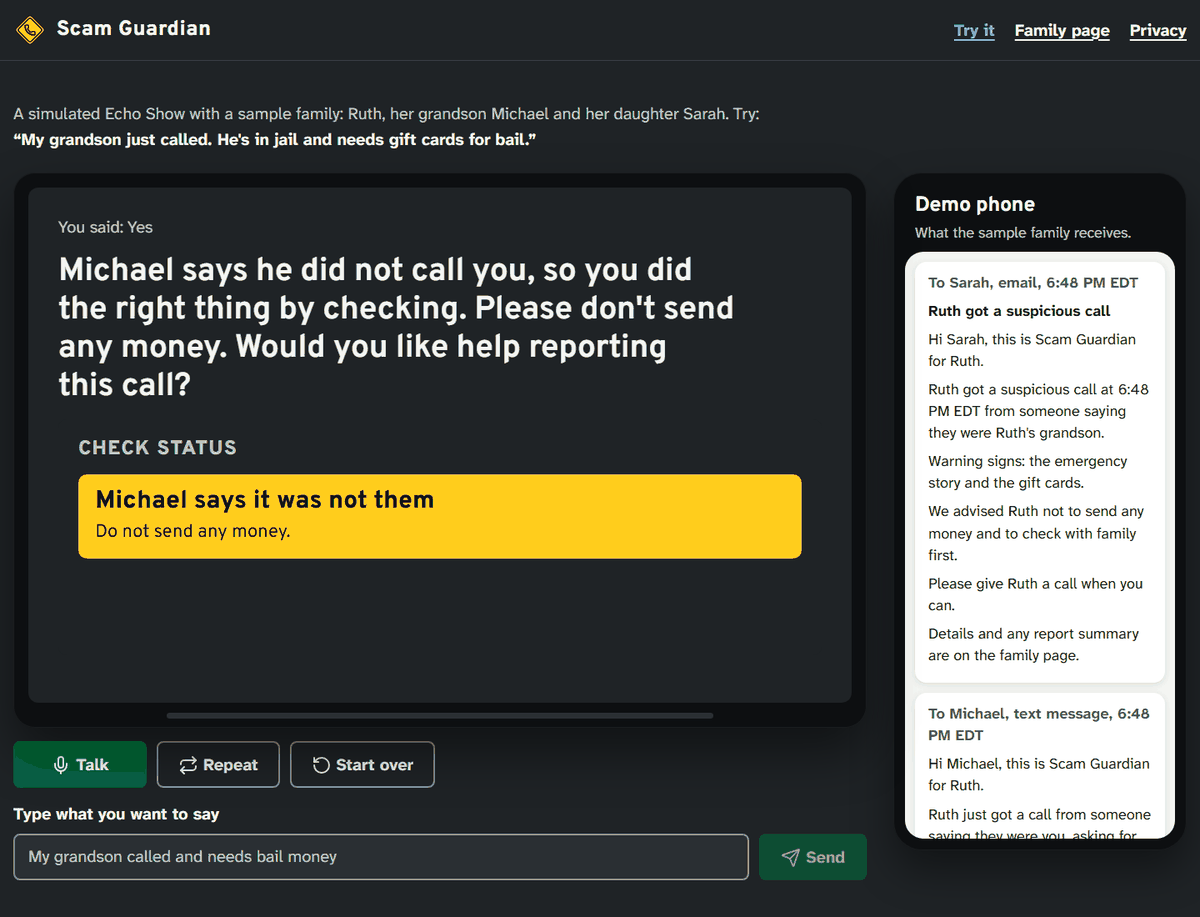
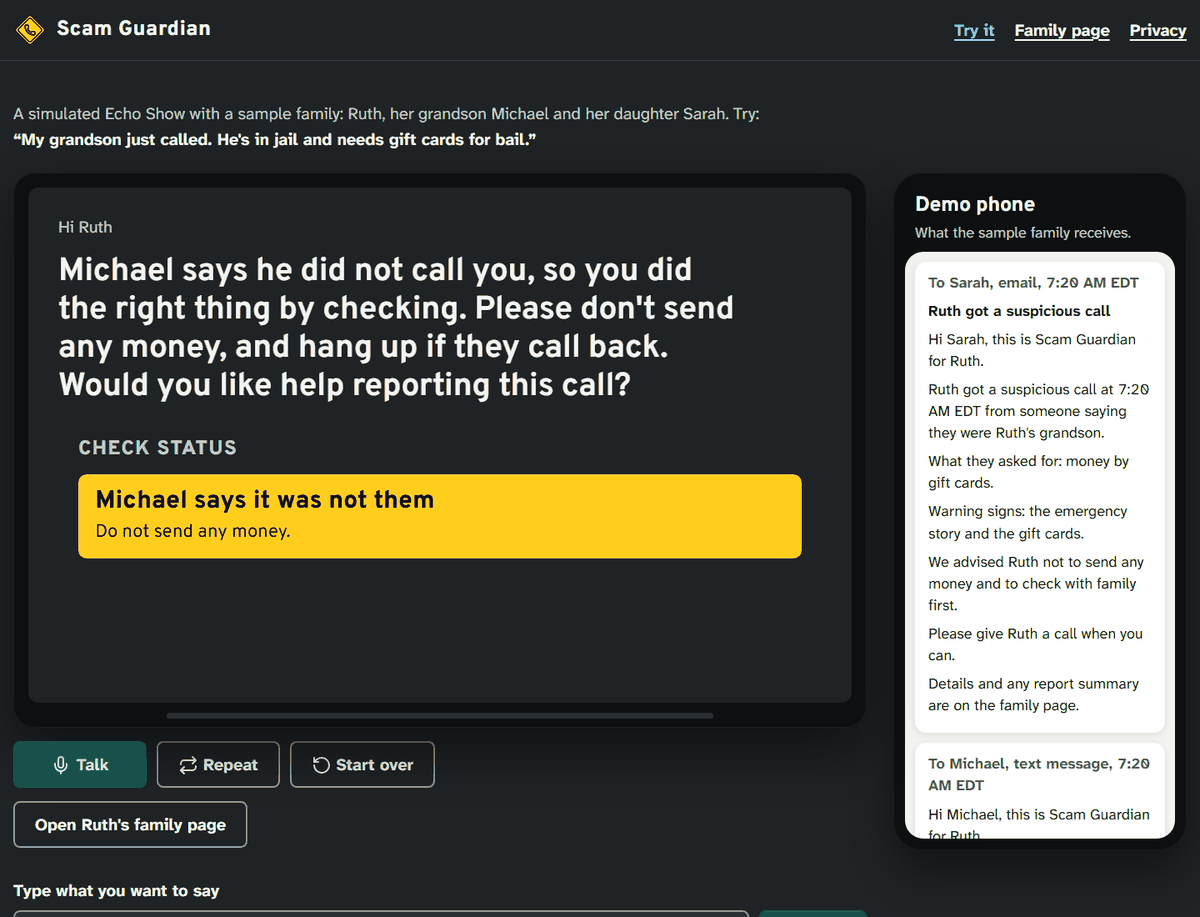
docs: regenerated screenshots and progress after the audits

diff --git a/PROGRESS.md b/PROGRESS.md
@@ -7,7 +7,7 @@ Voice anti-scam guardian for US seniors on Alexa+ (grandparent / AI voice-clone 
 Amazon Developer Hackathon "Build, Ship, Shape", Alexa+ track. Deadline 2026-10-23 12:00 PDT (21:00 Paris). Target submission: 2026-10-22 evening.
 
 ## Current step
-2026-10-02, after the owner confirmed the name and said "continue, don't stop": safety hardening of the full mode (host passes the person's own words to confirm_outreach and refuses same turn confirms; claims of sent messages without a send are replaced; password checks capped at 10 per household per hour), privacy page covers AWS and the model, 200% zoom and reflow tests, scripted Bedrock tool_use tests, CLI free deploy (`pnpm token:cloud`), `pnpm smoke`, remote Playwright (`E2E_BASE_URL`), Echo no longer drops early or fast typed input, Playwright in CI, `pnpm demo:play` for the video. PR #1 merged into main. Later the same day: video cards (title, statistic, architecture, closing), Devpost cover, captions.srt (`pnpm video:cards`), Open Graph previews, DESIGN.md with finish review, credits. Then `pnpm aws:check` (account preflight) and `pnpm rehearse` (real Lambda bundles behind Function URL emulators with fake Secrets Manager/SSM/DynamoDB; smoke + full Playwright pass; in CI); it found the 20/h start limit (now 200/h + site cap 3,000 model turns/h) and the disabled Echo input before start. Then an audit of FR-001 to FR-036 found three gaps, all fixed: public demo family page (FR-026, reachable from the Echo, no email; also fixed a demo cookie creating a "real" device), simpler repeat (FR-023), heads up says what was asked (FR-015). 552 tests, 27 Playwright scenarios (22 also pass against the Lambda rehearsal), 3 CI jobs.
+2026-10-02, after the owner confirmed the name and said "continue, don't stop": safety hardening of the full mode (host passes the person's own words to confirm_outreach and refuses same turn confirms; claims of sent messages without a send are replaced; password checks capped at 10 per household per hour), privacy page covers AWS and the model, 200% zoom and reflow tests, scripted Bedrock tool_use tests, CLI free deploy (`pnpm token:cloud`), `pnpm smoke`, remote Playwright (`E2E_BASE_URL`), Echo no longer drops early or fast typed input, Playwright in CI, `pnpm demo:play` for the video. PR #1 merged into main. Later the same day: video cards (title, statistic, architecture, closing), Devpost cover, captions.srt (`pnpm video:cards`), Open Graph previews, DESIGN.md with finish review, credits. Then `pnpm aws:check` (account preflight) and `pnpm rehearse` (real Lambda bundles behind Function URL emulators with fake Secrets Manager/SSM/DynamoDB; smoke + full Playwright pass; in CI); it found the 20/h start limit (now 200/h + site cap 3,000 model turns/h) and the disabled Echo input before start. Then an audit of FR-001 to FR-036 found three gaps, all fixed: public demo family page (FR-026, reachable from the Echo, no email; also fixed a demo cookie creating a "real" device), simpler repeat (FR-023), heads up says what was asked (FR-015). Then acceptance scenario and edge case audits: quiet news card with Hear it (US6.4), unsaved relative explanation (US2.3), already paid offers the report and confirms nothing sent (FR-013), secrecy reassurance, hang up on callbacks, setup suggestion when nobody is saved. 558 tests, 27 Playwright scenarios, 3 CI jobs. README screenshots regenerated.
 NEXT (owner): run `pnpm aws:check` with AWS credentials + Bedrock Claude Haiku 4.5 access in us-east-1, then `pnpm --filter @asg/infra exec cdk bootstrap` and `pnpm deploy` (T080); SES sender/domain. Then `pnpm smoke`, `E2E_BASE_URL=... pnpm test:e2e` (T102), `pnpm test:redteam:live`, `pnpm measure`, timed runs with people (T103), video Oct 21 (`pnpm demo:play`), Devpost Oct 22 from docs/devpost.md.
 
 ## Done
